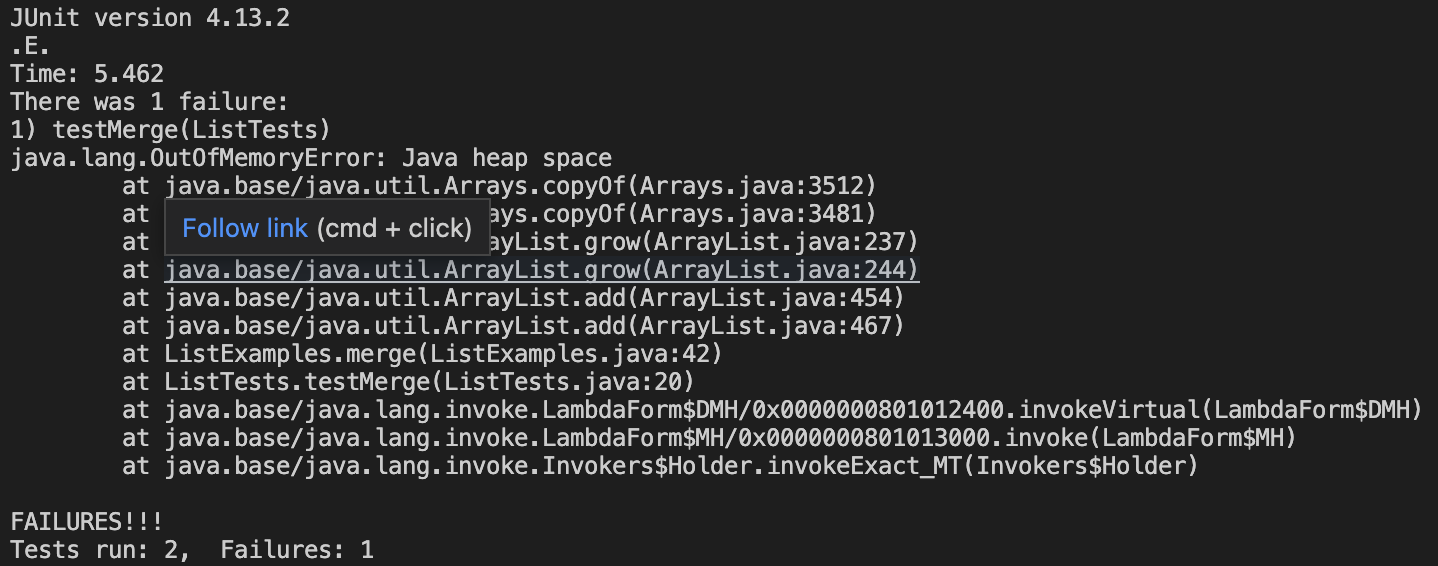
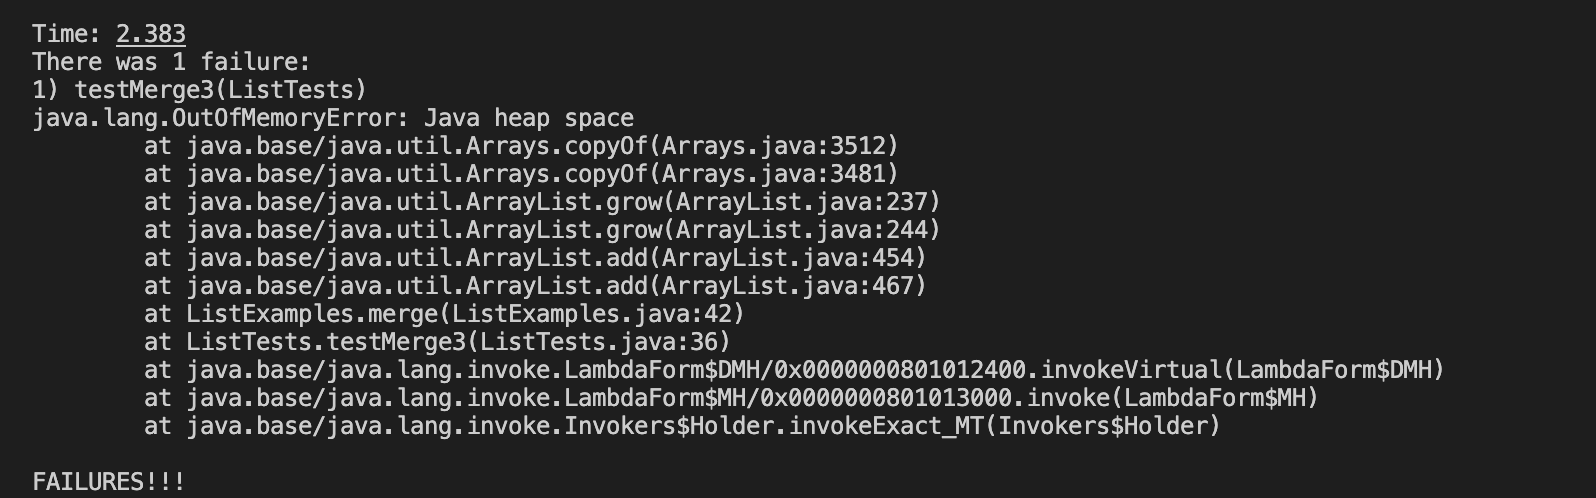
Update

Changed region(s): [[0.0, 0.0, 0.9791, 0.8735], [0.0, 0.9036, 0.1224, 0.994], [0.153, 0.9337, 0.2448, 0.994]]

diff --git a/index.md b/index.md
@@ -144,19 +144,17 @@ I deleted 0 as a paramter for the add method in the for loop. Before I fixed the
         ArrayList<String> expected = new ArrayList<String>(Arrays.asList("a", "b", "b", "c", "c", "d", "d"));
         assertEquals(expected, ListExamples.merge(list1, list2));
 
-        ArrayList<String> list3 = new ArrayList<String>(Arrays.asList("a"));
-        ArrayList<String> list4 = new ArrayList<String>(Arrays.asList("b"));
-        ArrayList<String> expected2 = new ArrayList<String>(Arrays.asList("a", "b"));
-        assertEquals(expected2, ListExamples.merge(list3, list4));
-
-        ArrayList<String> list5 = new ArrayList<String>(Arrays.asList("a", "b", "c", "d"));
-        ArrayList<String> expected3 = new ArrayList<String>(Arrays.asList("a", "a", "b", "c", "d"));
+        ArrayList<String> list3 = new ArrayList<String>(Arrays.asList("a", "b"));
+        ArrayList<String> list5 = new ArrayList<String>();
+        list5.add("d");
+        list5.add("e");
+        ArrayList<String> expected3 = new ArrayList<String>(Arrays.asList("a", "b", "d", "e"));
         assertEquals(expected3, ListExamples.merge(list3, list5));
     }
 ```
 ![Image](./Lab3/SecondError.png)
 
-If I try to merge two ArrayLists, one of which has only one element, there is an OutOfMemoryError, which means too many elements are added to the result ArrayList. 
+When one of the lists that are taken as parameters has an element of less than or equal to two, the program throws an OutOfMemory Error. 
 
 ### Before fixing the bug
 ```
@@ -185,6 +183,9 @@ If I try to merge two ArrayLists, one of which has only one element, there is an
 ```
 
 ### After fixing the bug
+```
+
+```
 
 # Part 3
 During the lab 2 and 3, I learned and took away numerous contents related to coding. Although I had some prior experience with Java before, I did not expect that Java can make webpages. Lab 2 facilitated me to learn more about the codes and logics to make a simple website with different queries and paths. 
